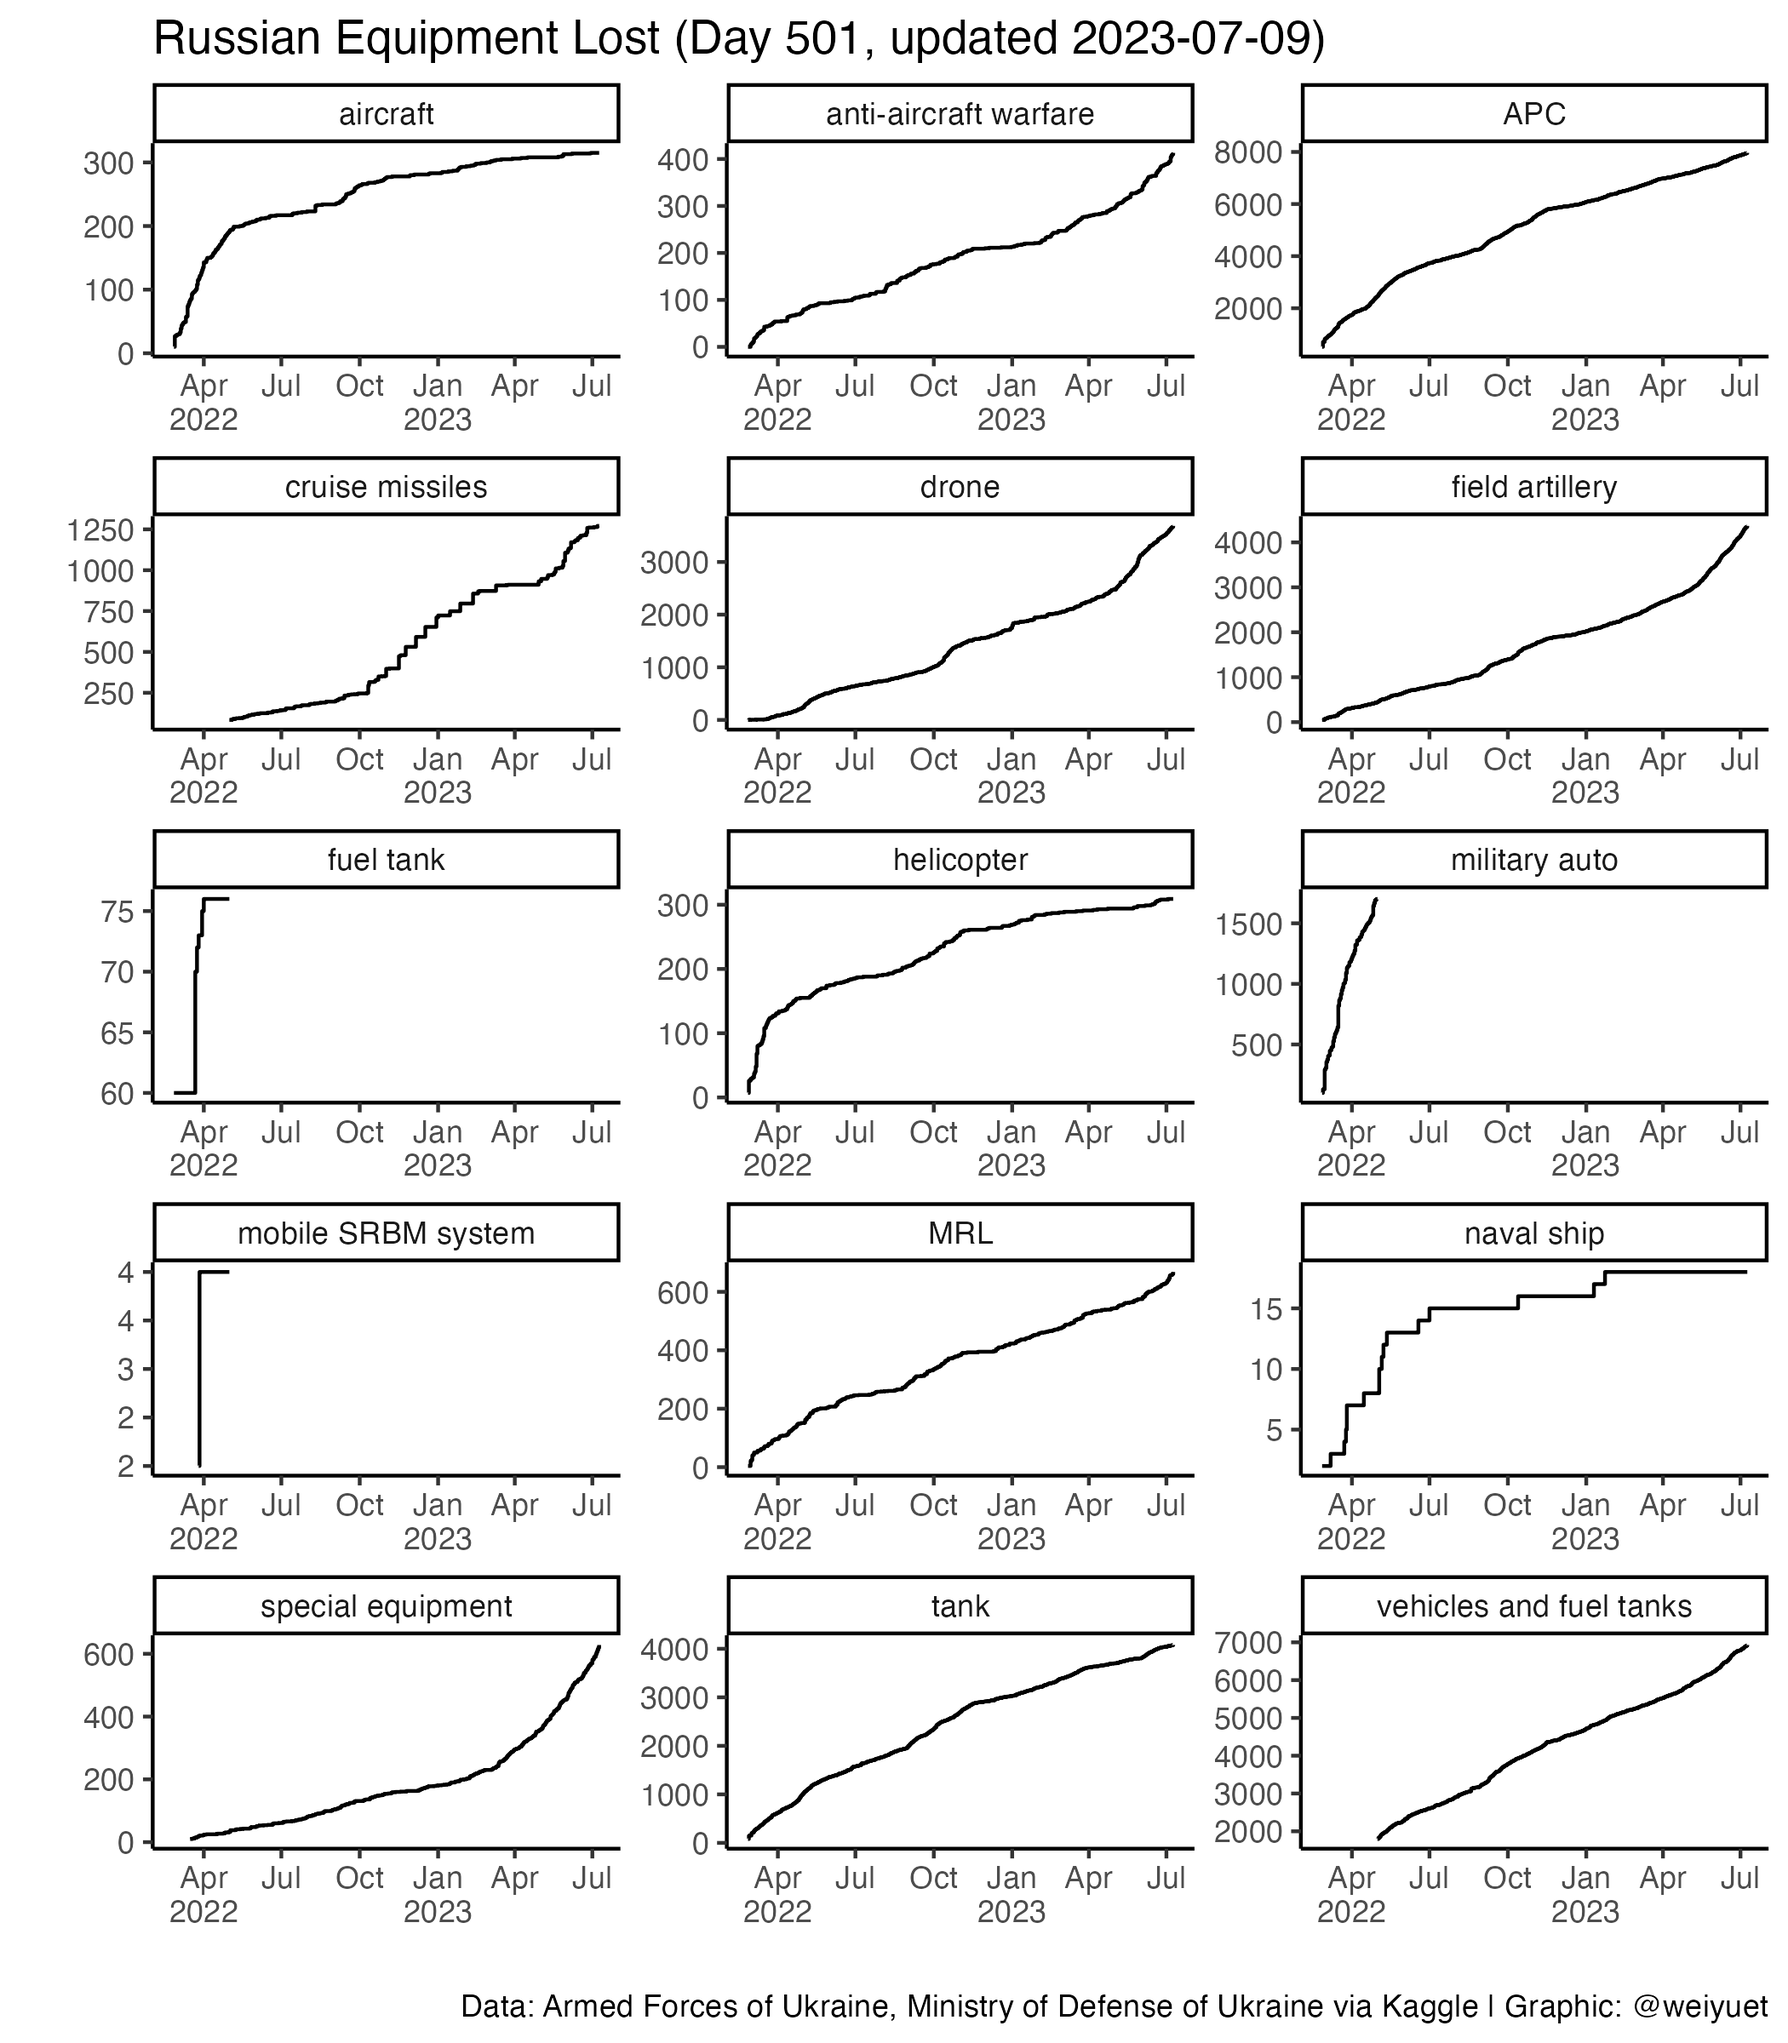
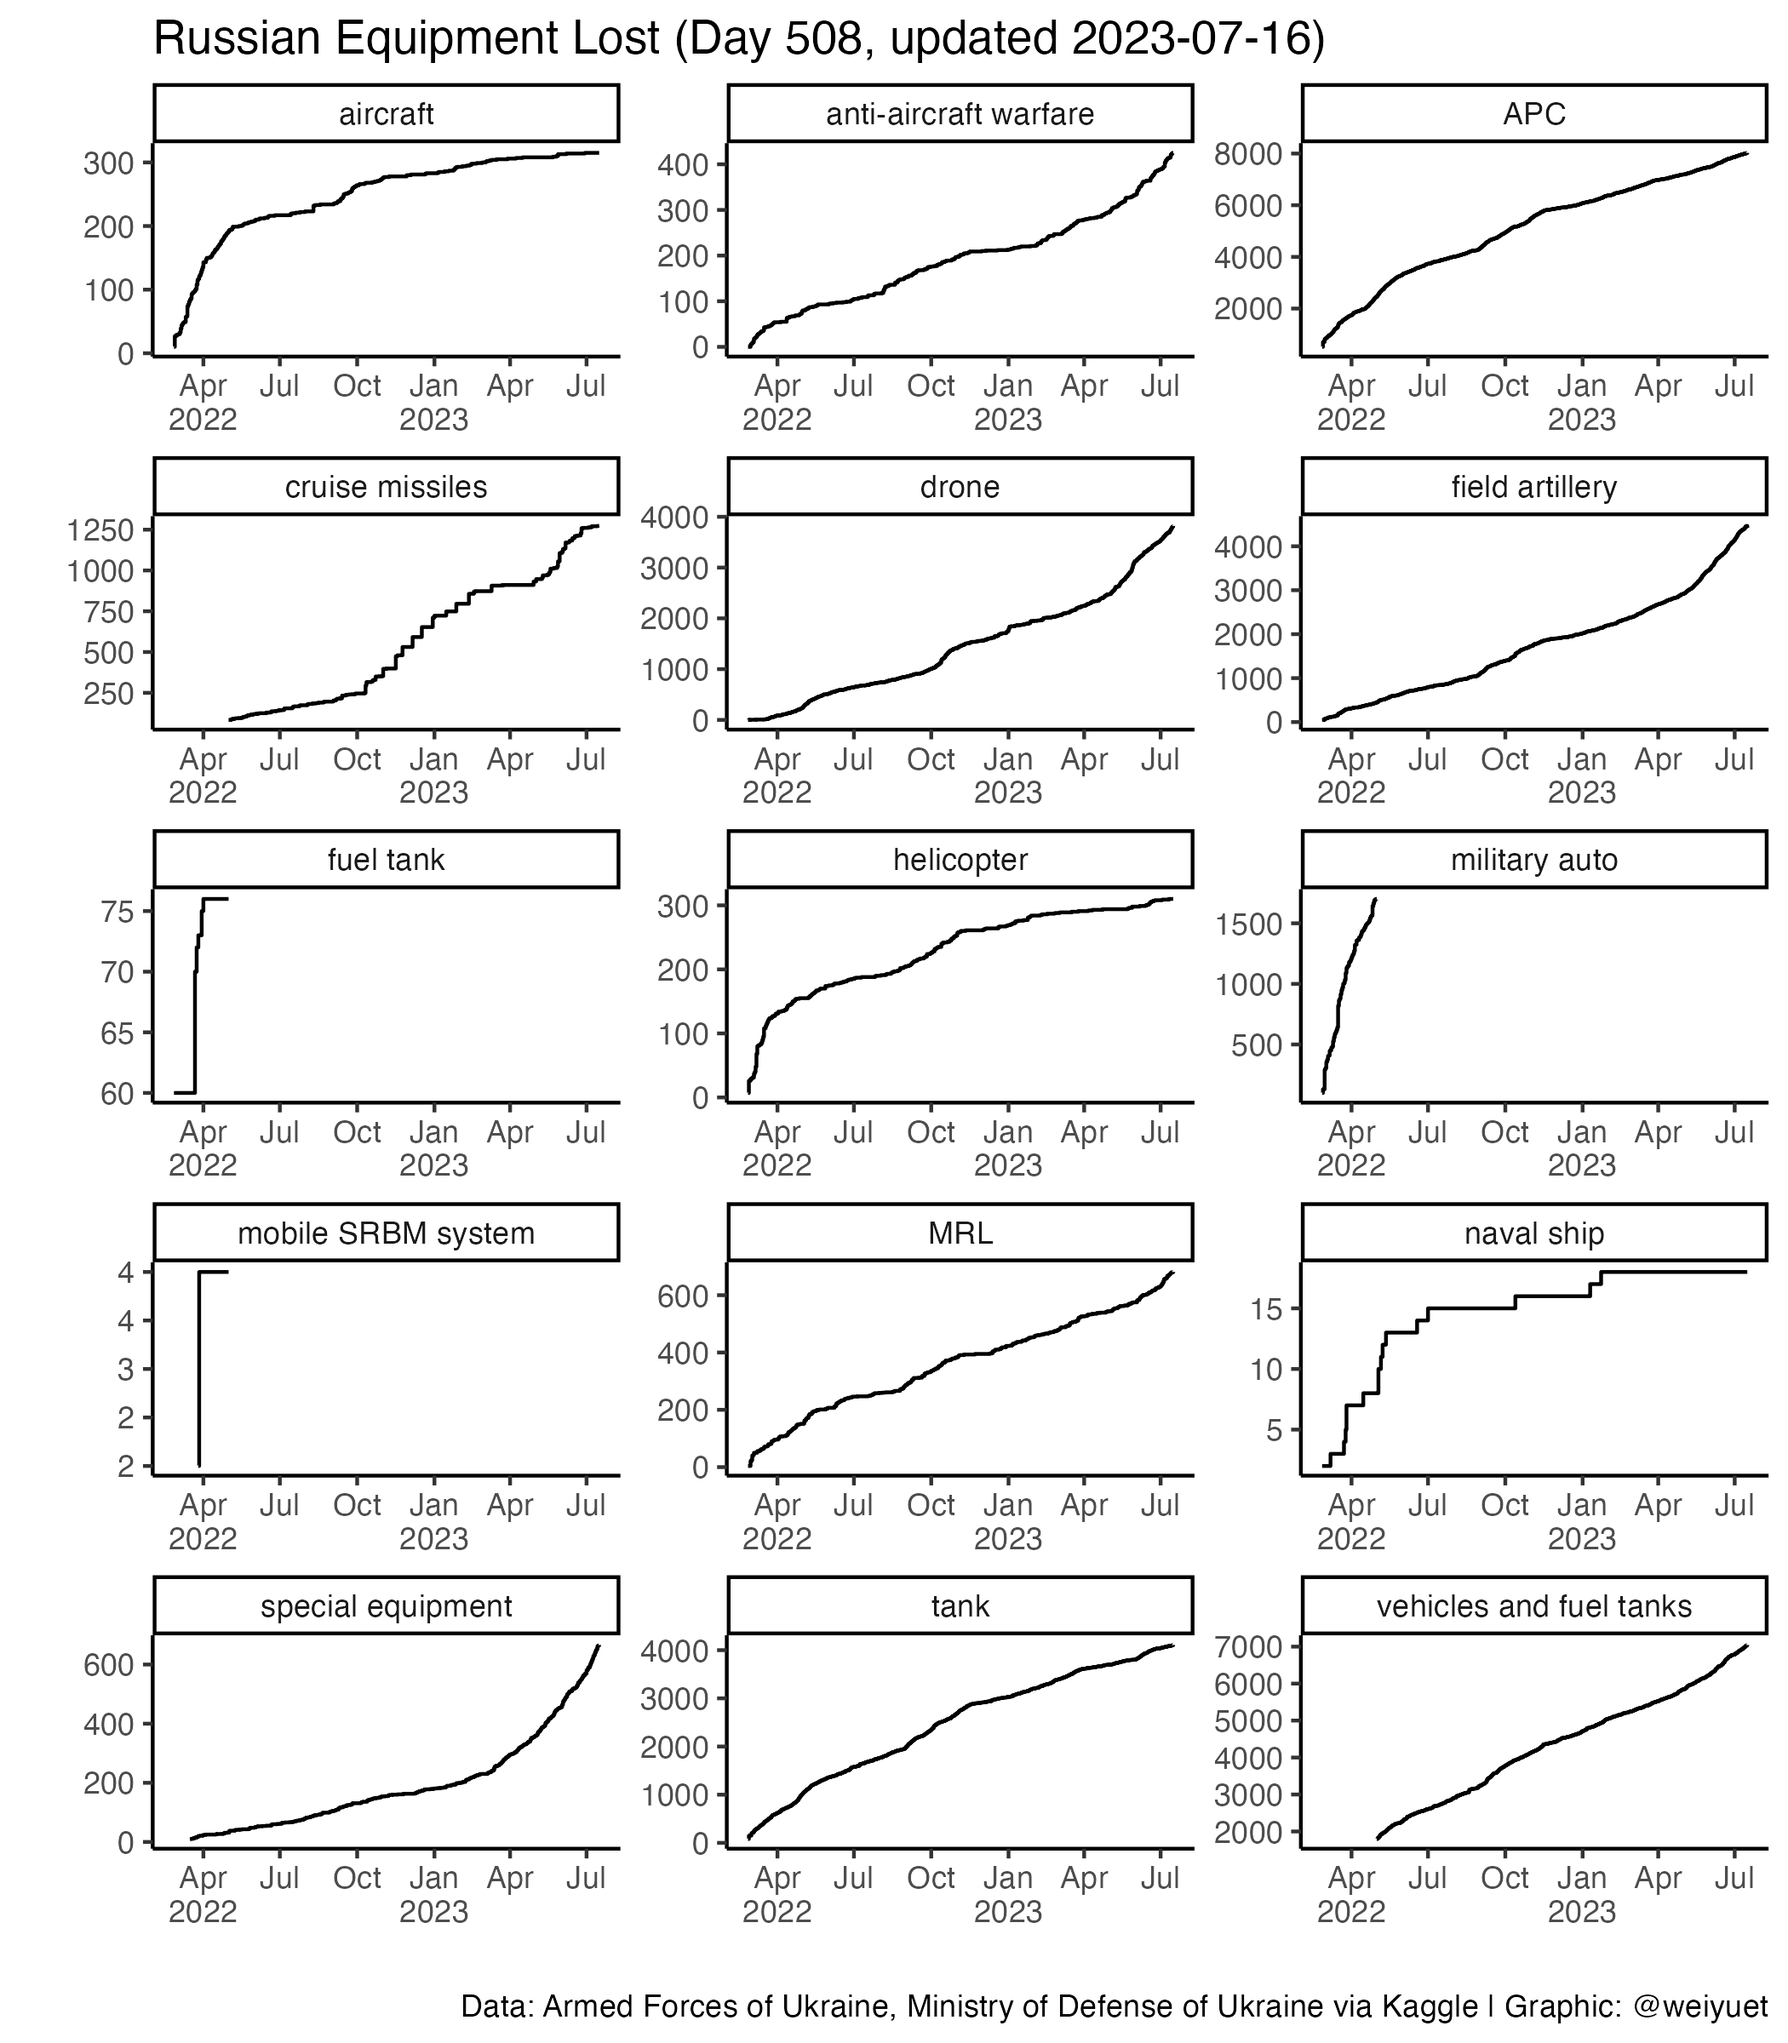
Updated 16 July

diff --git a/README.md b/README.md
@@ -6,7 +6,7 @@ Wong Wei Yuet 2022-05-26
 
   - War casualty data updated daily from [`Petro Ivanyuk's Kaggle`](https://www.kaggle.com/datasets/piterfm/2022-ukraine-russian-war). All data is official and put together by `Petro`
 
-Updated: 2023-07-09
+Updated: 2023-07-16
 
 ## Summary of Conflict
 
